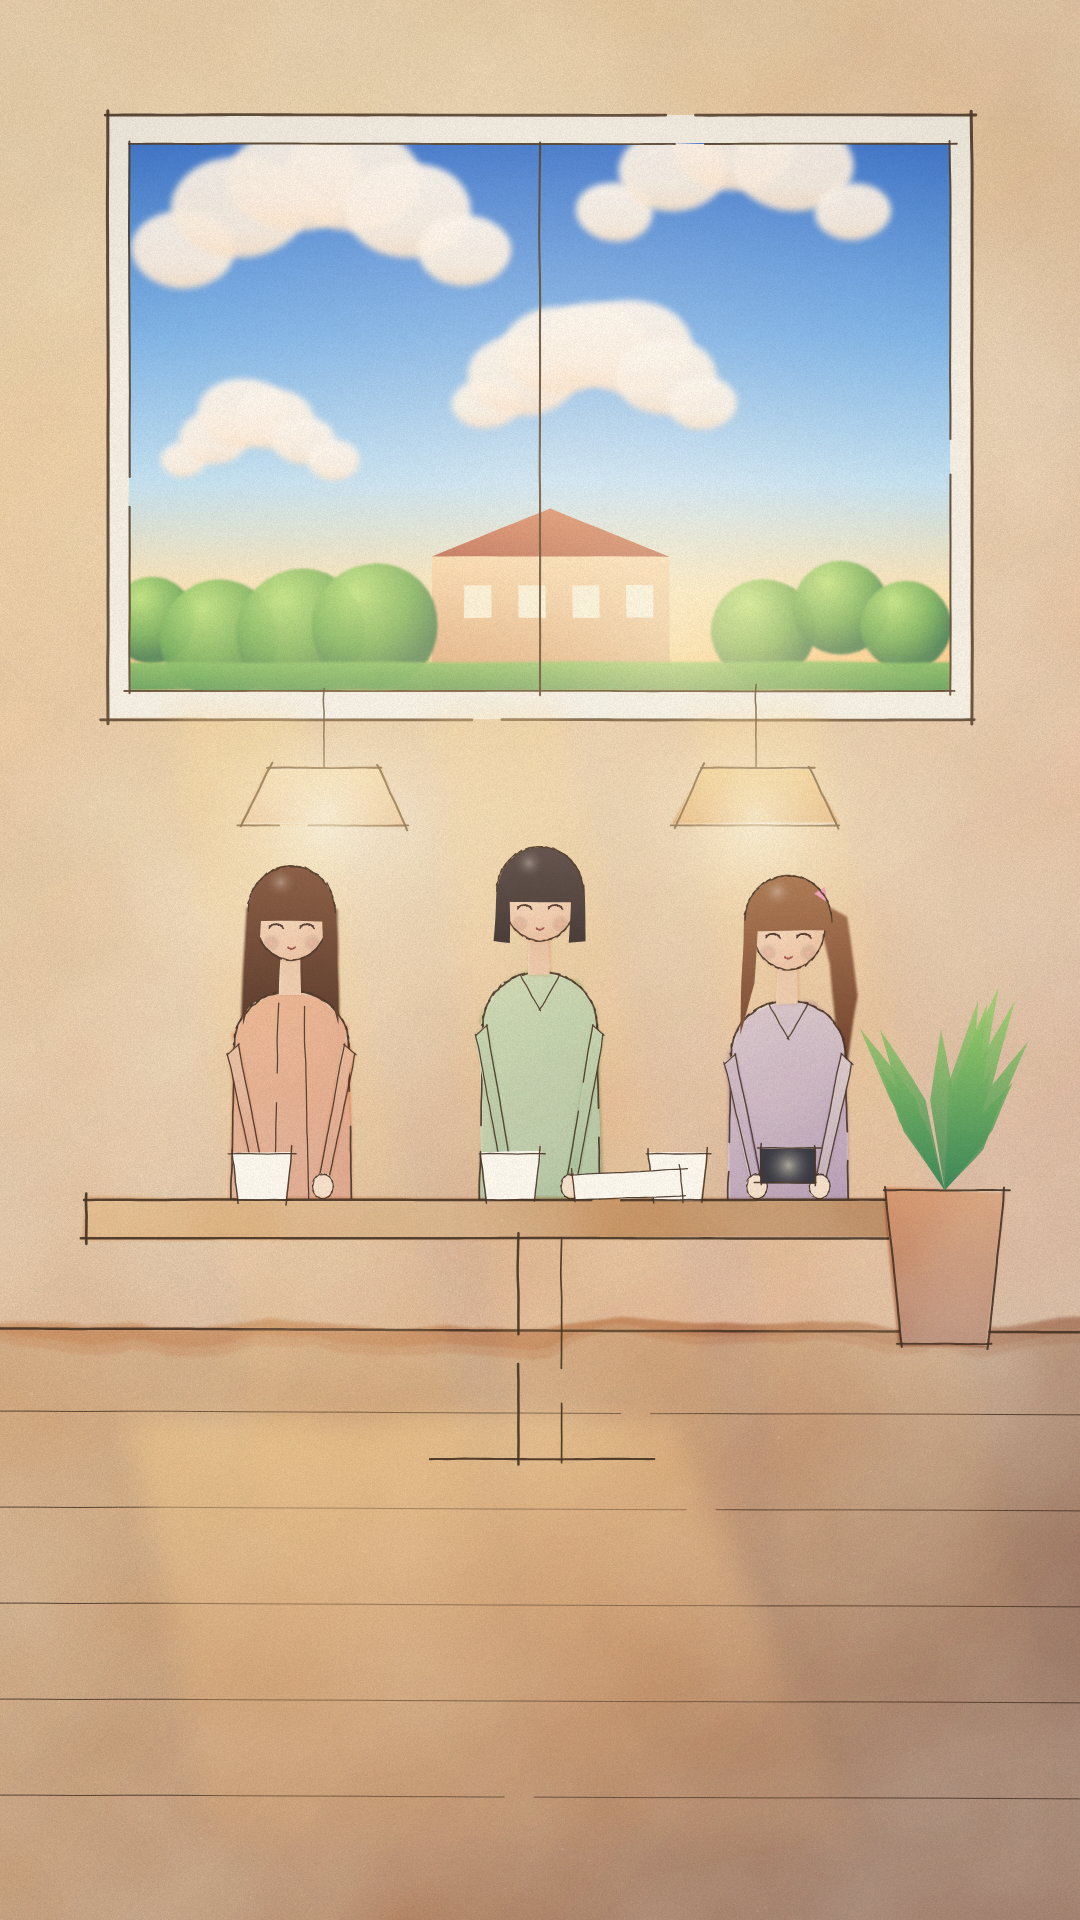
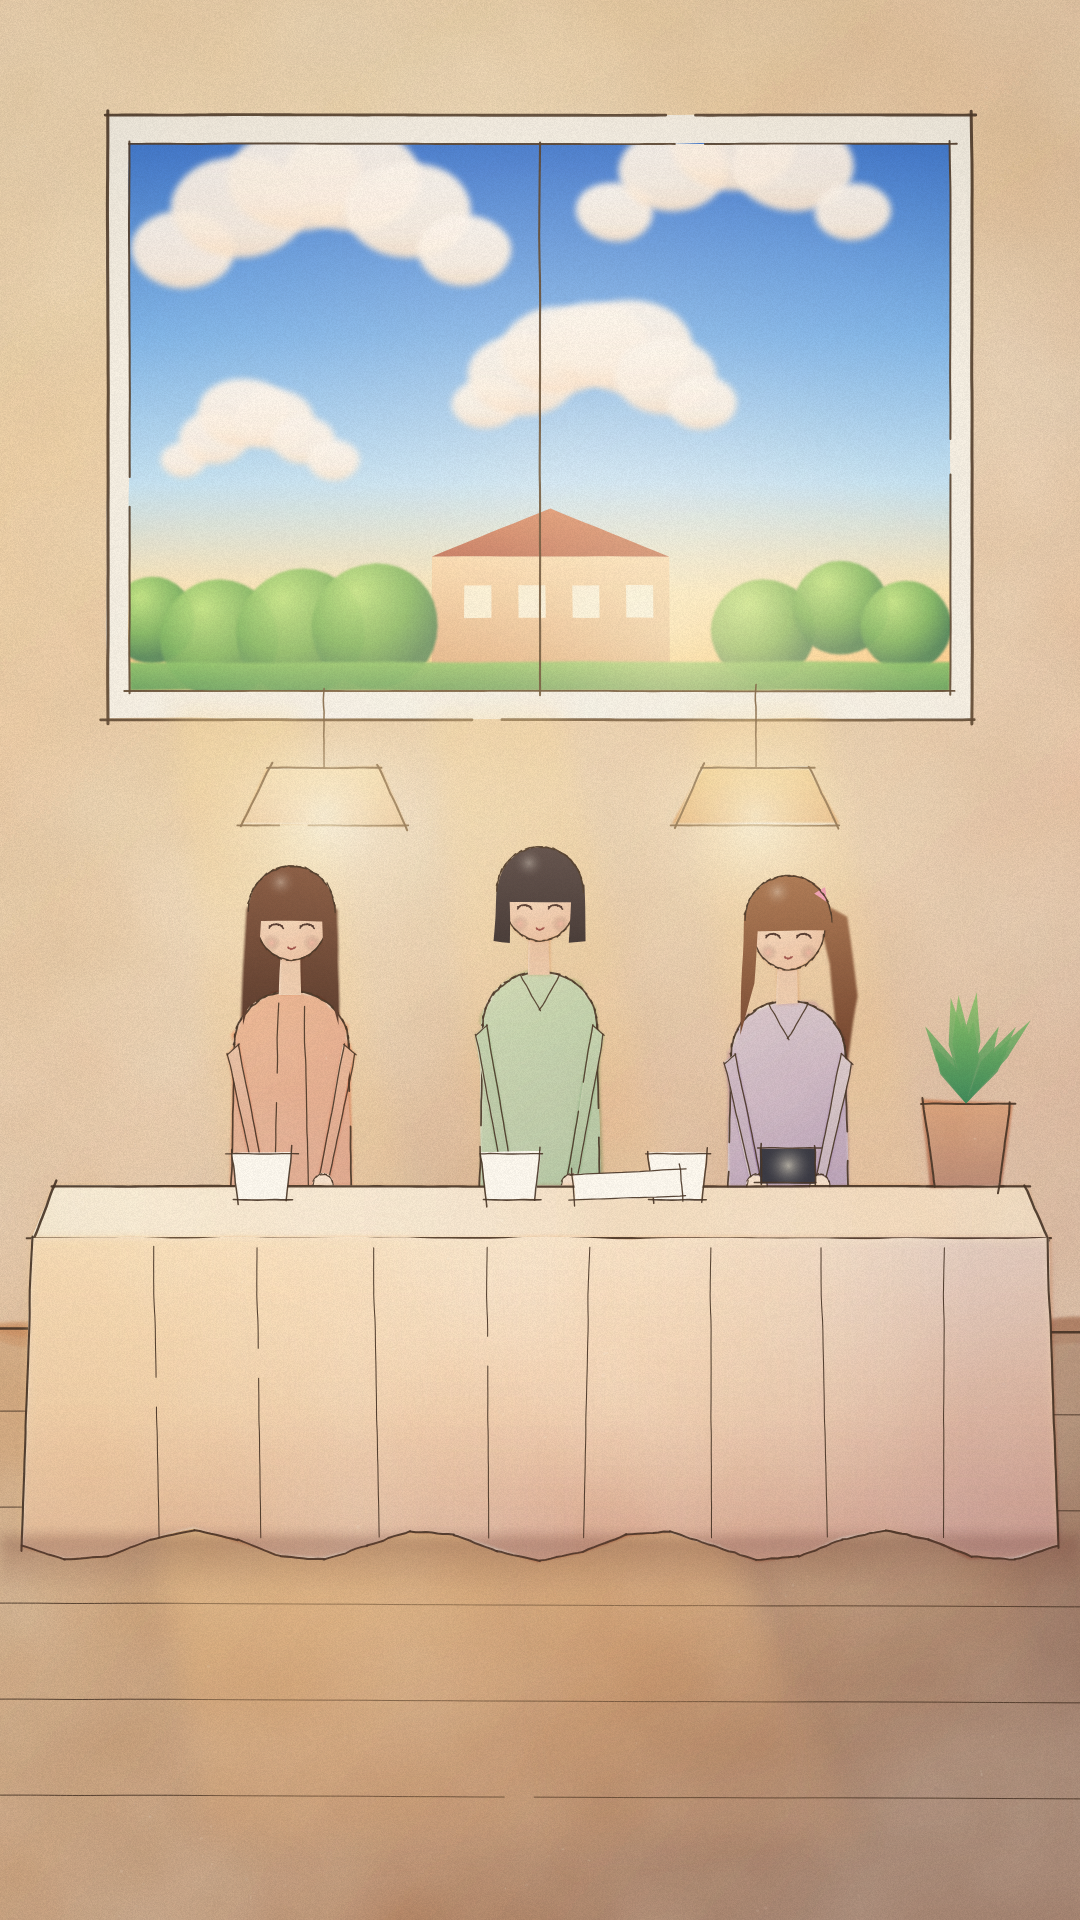
Café: tablecloth down to the floor, plant on the table
The thin table left empty space under the girls, so they looked like
they were floating. The table now has a long tablecloth reaching the
floor with a soft shadow, and the plant sits on the table's end.

Claude-Session: https://claude.ai/code/session_01QJp63bhFZm94244kzyjmou

Changed region(s): [[0.0, 0.5, 0.9778, 0.8125]]

diff --git a/dear-me/ArtSource/paint-cafe.html b/dear-me/ArtSource/paint-cafe.html
@@ -98,16 +98,25 @@ girl(0.50, 0.445, {style:'bob',  hair:'#2e2626', hairLight:'#5a4a48', hairDark:'
 girl(0.73, 0.46,  {style:'pony', hair:'#7a4a32', hairLight:'#b07a54', hairDark:'#4a2c22', top:'#b49ad6', lit:'#e6d4f6', collar:true, ribbon:'#f2a0b4'}); // Hyejin
 const cam=[[0.705,0.598],[0.755,0.598],[0.755,0.616],[0.705,0.616]]; reserve(cam,'#3a3a44'); ink(cam,{w:1.6,close:true}); glow(0.73,0.607,26,'#fff3d0',.6,'screen');
 // table, cups, the notice
-const tb=[[0.08,0.625],[0.92,0.625],[0.92,0.645],[0.08,0.645]];
-reserve(tb); wash(tb, linear(0.08,0.63,0.92,0.64,[[0,'#f0b06a'],[1,'#b5784e']]),{alpha:.85,rough:2}); ink(tb,{w:2.6,close:true});
-ink([[0.48,0.645],[0.48,0.76]],{w:2.6}); ink([[0.52,0.645],[0.52,0.76]],{w:1.8}); ink([[0.40,0.76],[0.60,0.76]],{w:2.2});
+// table with a long tablecloth down to the floor, so nobody seems to float
+const tableTop=[[0.05,0.618],[0.95,0.618],[0.97,0.645],[0.03,0.645]];
+reserve(tableTop,"#fbf4e6"); wash(tableTop, linear(0.05,0.618,0.95,0.645,[[0,'#fff1d8'],[1,'#f2cfae']]),{alpha:.6,rough:2}); ink(tableTop,{w:2.4,close:true});
+const hem=[]; for (let i=0;i<=24;i++){ const t=i/24; hem.push([0.02+t*0.96, 0.805+0.008*Math.sin(t*Math.PI*9)]); }
+const skirt=[[0.03,0.645],[0.97,0.645]].concat(hem.slice().reverse());
+reserve(skirt,'#fbf4e6');
+wash(skirt, linear(0.5,0.645,0.5,0.81,[[0,'#ffe9cf'],[0.55,'#f6c9a8'],[1,'#d99a86']]),{alpha:.75,rough:2,edge:.15});
+paint(skirt, linear(0.1,0.7,0.9,0.7,[[0,'rgba(255,214,150,.35)'],[0.5,'rgba(255,214,150,0)'],[1,'rgba(150,100,140,.18)']]),{rough:2,blur:4});
+ink([[0.03,0.645],[0.02,0.805]],{w:2.2}); ink([[0.97,0.645],[0.98,0.805]],{w:2.2}); ink(hem,{w:2,gap:true,overshoot:0});
+for (let i=1;i<9;i++){ const x=0.03+i*0.105+rnd(-.01,.01); ink([[x,0.65],[x+rnd(-.006,.006),0.80]],{w:1.1,gap:true,overshoot:2}); }
+// soft shadow where the cloth meets the floor
+paint([[0.0,0.80],[1.0,0.80],[1.0,0.83],[0.0,0.83]], linear(0.5,0.8,0.5,0.83,[[0,'rgba(120,70,60,.35)'],[1,'rgba(120,70,60,0)']]),{rough:3,blur:6});
 for (const x of [0.215,0.445,0.60]){ const c=[[x,0.60],[x+0.055,0.60],[x+0.05,0.625],[x+0.005,0.625]]; reserve(c,'#fffaf0'); ink([[x,0.60],[x+0.005,0.625],[x+0.05,0.625],[x+0.055,0.60]],{w:1.6}); ink([[x,0.601],[x+0.055,0.601]],{w:1.4}); }
 const nt=[[0.53,0.612],[0.63,0.609],[0.632,0.623],[0.532,0.625]]; reserve(nt,'#fffaf0'); ink(nt,{w:1.3,close:true});
-// plant
-const pot=[[0.82,0.62],[0.93,0.62],[0.915,0.70],[0.835,0.70]];
-reserve(pot); wash(pot, linear(0.87,0.62,0.87,0.7,[[0,'#e08a5a'],[1,'#a85a44']]),{alpha:.8,rough:2}); ink(pot,{w:2,close:true});
-for (let i=0;i<14;i++){ const a=rnd(-2.7,-0.5), l=rnd(.06,.13), cx=0.875, cy=0.62;
-  paint([[cx,cy],[cx+Math.cos(a)*l*.5+0.012,cy+Math.sin(a)*l*.5],[cx+Math.cos(a)*l,cy+Math.sin(a)*l*.9],[cx+Math.cos(a)*l*.5-0.012,cy+Math.sin(a)*l*.5]], linear(cx,cy,cx,cy-.1,[[0,'#3f8a5a'],[1,'#9ad06a']]),{alpha:.85,rough:2,blur:.6}); }
+// small plant on the table's right end
+const pot=[[0.855,0.575],[0.935,0.575],[0.925,0.618],[0.865,0.618]];
+reserve(pot); wash(pot, linear(0.89,0.575,0.89,0.618,[[0,'#e08a5a'],[1,'#a85a44']]),{alpha:.8,rough:2}); ink(pot,{w:2,close:true});
+for (let i=0;i<12;i++){ const a=rnd(-2.6,-0.55), l=rnd(.04,.08), cx=0.895, cy=0.575;
+  paint([[cx,cy],[cx+Math.cos(a)*l*.5+0.009,cy+Math.sin(a)*l*.5],[cx+Math.cos(a)*l,cy+Math.sin(a)*l*.9],[cx+Math.cos(a)*l*.5-0.009,cy+Math.sin(a)*l*.5]], linear(cx,cy,cx,cy-.07,[[0,'#3f8a5a'],[1,'#9ad06a']]),{alpha:.85,rough:2,blur:.6}); }
 
 // ---- warm afternoon light, page edge, tooth
 glow(0.5,0.25,900,'#ffcf8a',.3,'screen');
